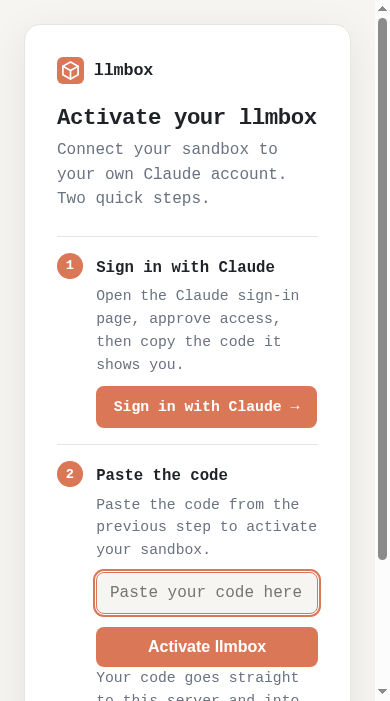
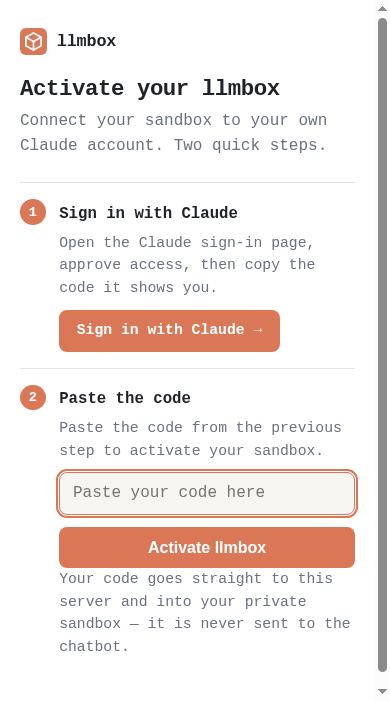
feat(ui): full-bleed auth page on phones; commit screenshots on PRs
Mobile layout: on viewports <= 30rem the activation card dropped its framing
(side gutters, border, radius, shadow) and now fills the whole screen, so the
content uses the available width instead of floating in a narrow centred column.
Desktop is unchanged — the breakpoint is phone-only. The mobile screenshot is
regenerated to match.

CI: screenshots are now captured and committed on the pull request that changes
the UI (onto the PR's head branch, so they show up in the PR diff and get
reviewed) instead of being pushed to main after merge. The e2e job checks out
the PR head branch and, for same-repo PRs only, commits the refreshed images
back with [skip ci]; fork PRs (read-only token) still run the test but skip the
commit.

README updated to describe both the responsive mobile behaviour and the
PR-based screenshot refresh.

Changed region(s): [[0.0308, 0.03, 0.9231, 1.0], [0.9538, 0.7789, 1.0, 0.9586], [0.0308, 0.5093, 0.1231, 0.5991]]

diff --git a/README.md b/README.md
@@ -49,10 +49,11 @@ Boxes that are never authenticated are destroyed after `auth_ttl`
 ### The activation page
 
 This is what the user sees at the auth-page URL — paste the code to activate, and
-the box reports ready with its session URL. The page is responsive, so it works
-just as well on a phone. These images are **captured by the end-to-end test**
-(headless Chrome via WebDriver) and refreshed by CI on every push to `main`, so
-they always reflect the current UI — see [Tested](#tested).
+the box reports ready with its session URL. The page is responsive, so on a phone
+it drops the card framing and fills the screen. These images are **captured by the
+end-to-end test** (headless Chrome via WebDriver) and refreshed by CI **on the
+pull request** that changes the UI — committed straight into the PR's diff — so
+they always reflect the current UI and stay reviewable; see [Tested](#tested).
 
 | Activate | Ready | On mobile |
 |----------|-------|-----------|
@@ -414,15 +415,19 @@ core security property: the OAuth URL and code never appear in any MCP output.
 make test-e2e            # or: go test -tags e2e ./e2e/...
 ```
 
-It skips gracefully when no `chromedriver` is on the host (or `$CHROMEWEBDRIVER`),
-so the default `go test ./...` unit run is unaffected and stays fast.
+The e2e suite is opt-in: it only builds under `-tags e2e`, so the default
+`go test ./...` unit run never includes it and stays fast. When you do run it and
+no `chromedriver` is available (on `$CHROMEWEBDRIVER` or `$PATH`), it **fails**
+rather than skipping — running the suite is an explicit request, so a missing
+browser is an error, not a silent pass.
 
 When `$LLMBOX_E2E_SCREENSHOT_DIR` is set, the test also saves PNG screenshots of
 the auth page (`auth-page.png`, `auth-ready.png`, and a phone-sized
 `auth-page-mobile.png`) to that directory. CI sets it
-to [`.github/screenshots/`](.github/screenshots) and, on pushes to `main`,
-commits the refreshed images back, so the [activation page](#the-activation-page)
-shown above always matches the live UI.
+to [`.github/screenshots/`](.github/screenshots) and, **on pull requests** (from
+this repo), commits the refreshed images straight onto the PR branch, so the
+[activation page](#the-activation-page) shown above always matches the live UI
+and the change is reviewed together with the code that caused it.
 
 ## Status / caveats
 